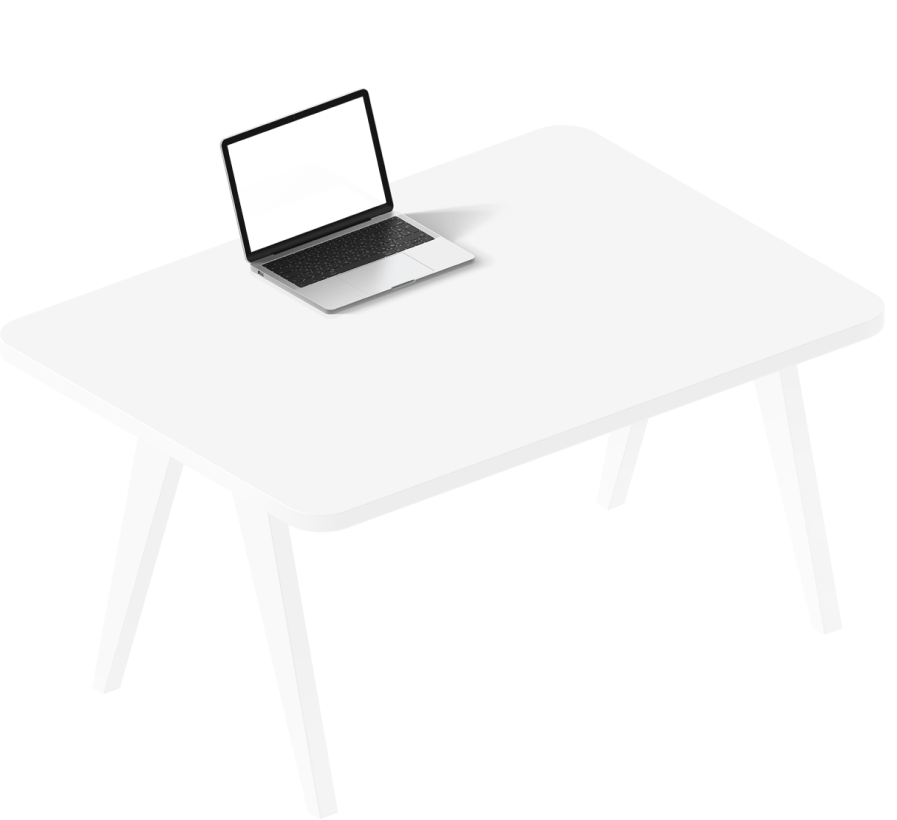
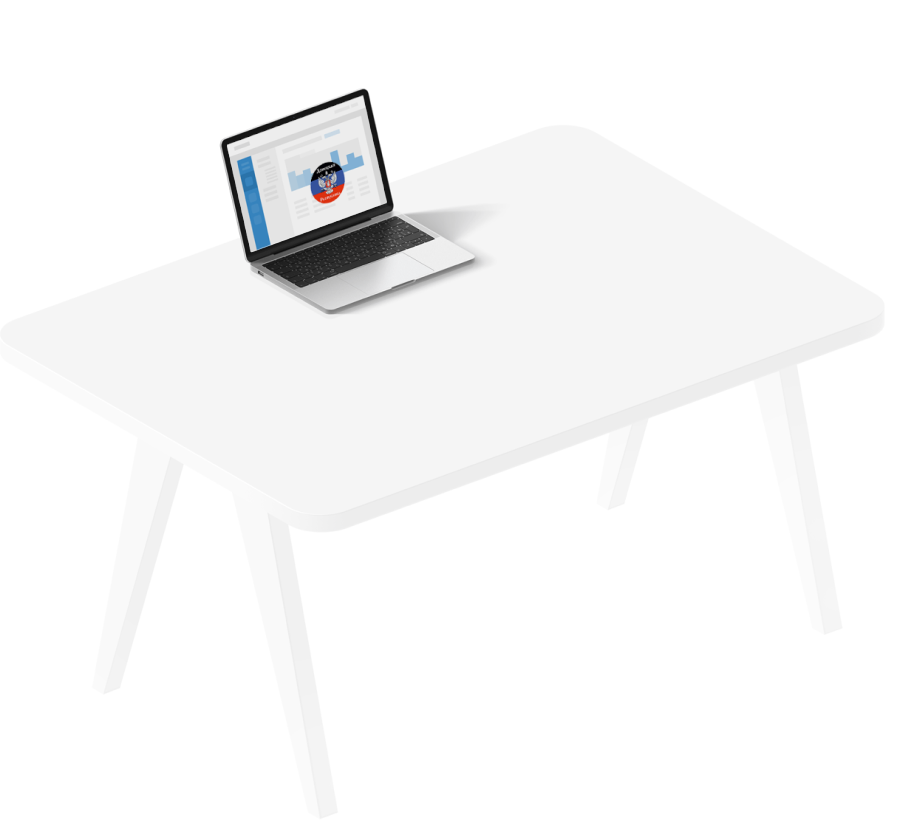
Fixed img header and styles

Changed region(s): [[0.2497, 0.122, 0.437, 0.3049]]

diff --git a/src/components/EcosystemBusiness/Ecosystem.scss b/src/components/EcosystemBusiness/Ecosystem.scss
@@ -2,6 +2,7 @@
 @import '../../styles/fonts';
 
 .ecosistem {
+  color: $black;
   display: flex;
   margin-top: 81px;
   justify-content: space-between;
@@ -13,7 +14,6 @@
     font-weight: $bolt;
     font-size: 37px;
     line-height: 66px;
-    color: $black;
   }
 
   &__box {
@@ -33,7 +33,6 @@
         font-weight: $medium;
         font-size: 20px;
         line-height: 48px;
-        color: $black;
         border-bottom: 1px solid $black;
         display: inline;
         cursor: pointer;
@@ -47,23 +46,23 @@
     height: 50px;
 
     &_title {
+      margin-bottom: 15px;
       color: $green;
 
       p {
-        width: 50%;
+        width: 200px;
         font-weight: $medium;
         font-size: 16px;
       }
 
       img {
-        margin: 0 27px 0 40px;
+        margin: 0 19px 0 5px;
       }
     }
   }
 
   .table {
     position: relative;
-    margin-top: 20px;
     display: flex;
     flex-wrap: wrap;
     justify-content: center;
@@ -84,8 +83,7 @@
     }
 
     &__table,
-    &__eagle,
-    &__laptop {
+    &__eagle {
       position: absolute;
       z-index: -1;
     }
@@ -99,18 +97,13 @@
       top: -105px;
       left: -63px;
     }
-
-    &__laptop {
-      top: -34px;
-      left: -225px;
-    }
   }
 }
 
 /*320px - 576px*/
 @media (max-width: 576px) {
   .container {
-    width: 280px;
+    width: 90%;
   }
 
   .ecosistem {
@@ -118,7 +111,7 @@
 
     &__title {
       font-size: 21px;
-      width: 80%;
+      width: 207px;
       line-height: 33px;
     }
 
@@ -128,15 +121,17 @@
       }
 
       &_title {
-        margin-top: 30px;
+        margin-top: 15px;
         line-height: 20px;
-        p {
-          width: 90%;
+
+        img {
+          margin: 0 18px 0 5px;
         }
       }
     }
 
     .table {
+      position: relative;
       justify-content: flex-start;
 
       .icons {
@@ -150,21 +145,16 @@
           margin-right: 10px;
         }
       }
+
       &__table {
         width: 345px;
         top: -183px;
-        right: -205px;
+        left: 130px;
       }
 
       &__eagle {
         top: -73px;
         left: -27px;
-      }
-
-      &__laptop {
-        top: -147px;
-        width: 62px;
-        left: 227px;
       }
     }
 

diff --git a/src/components/EcosystemBusiness/Ecosystem.jsx b/src/components/EcosystemBusiness/Ecosystem.jsx
@@ -9,26 +9,19 @@ const Ecosystem = () => {
       </div>
       <div className="ecosistem__box">
         <div className="icons icons_title">
-          <img src={require('../../assets/img/icons/greenTick.png')} alt="" />
+          <img src={require('../../assets/img/icons/greenTick.png')} alt="#" />
           <p>Донецкая Народная Республика</p>
         </div>
         <div className="table">
           <div className="icons">
-            <img src={require('../../assets/img/icons/extern.png')} alt="" />
+            <img src={require('../../assets/img/icons/extern.png')} alt="#" />
             <p>Экстерн</p>
           </div>
           <div className="icons">
-            <img src={require('../../assets/img/icons/diadoc.png')} alt="" />
+            <img src={require('../../assets/img/icons/diadoc.png')} alt="#" />
             <p>Диадок</p>
           </div>
-          <div className="icons">
-            <img src={require('../../assets/img/icons/medal.png')} alt="" />
-            <p>ЭЦП</p>
-          </div>
-          <div className="icons">
-            <img src={require('../../assets/img/icons/buhgalteria.png')} alt="" />
-            <p>Бухгалтерия</p>
-          </div>
+
           <img
             src={require('../../assets/img/header/tableLaptop.png')}
             alt="#"
@@ -39,11 +32,16 @@ const Ecosystem = () => {
             alt="#"
             className="table__eagle"
           />
-          <img
-            src={require('../../assets/img/header/imageLaptop.png')}
-            alt="#"
-            className="table__laptop"
-          />
+        </div>
+        <div className="table">
+          <div className="icons">
+            <img src={require('../../assets/img/icons/medal.png')} alt="#" />
+            <p>ЭЦП</p>
+          </div>
+          <div className="icons">
+            <img src={require('../../assets/img/icons/buhgalteria.png')} alt="#" />
+            <p>Бухгалтерия</p>
+          </div>
         </div>
       </div>
       <div className="ecosistem__services">

diff --git a/src/components/ElectrSign/ElectrSign.jsx b/src/components/ElectrSign/ElectrSign.jsx
@@ -12,7 +12,7 @@ const ElectrSign = () => {
         </p>
       </div>
       <div className="electrSign__map">
-        <iframe
+        {/* <iframe
           title="map"
           src="https://www.google.com/maps/embed?pb=!1m18!1m12!1m3!1d2668.8378214821846!2d37.80922374947294!3d48.01684305296687!2m3!1f0!2f0!3f0!3m2!1i1024!2i768!4f13.1!3m3!1m2!1s0x40e0903fc9e66b5b%3A0x6651508ebecae25e!2sMyru%20Ave%2C%2017%2C%20Donetsk%2C%20Donets&#39;ka%20oblast%2C%20Ukraine%2C%2083000!5e0!3m2!1sen!2s!4v1668853546625!5m2!1sen!2s"
           width="1018"
@@ -20,7 +20,13 @@ const ElectrSign = () => {
           allowFullScreen=""
           loading="lazy"
           referrerPolicy="no-referrer-when-downgrade"
-          //   access-control-allow-origin="google.com"
+        ></iframe> */}
+
+        <iframe
+          title="map"
+          src="https://yandex.ru/map-widget/v1/-/CCUfuIfY0D"
+          width="1018"
+          height="431"
         ></iframe>
       </div>
       <div className="electrSign__text">

diff --git a/src/UI/MenuBurger/MenuBurger.jsx b/src/UI/MenuBurger/MenuBurger.jsx
@@ -3,7 +3,7 @@ import './MenuBurger.scss';
 
 const MenuBurger = () => {
   return (
-    <div class="menu-btn">
+    <div className="menu-btn">
       <span></span>
       <span></span>
       <span></span>
